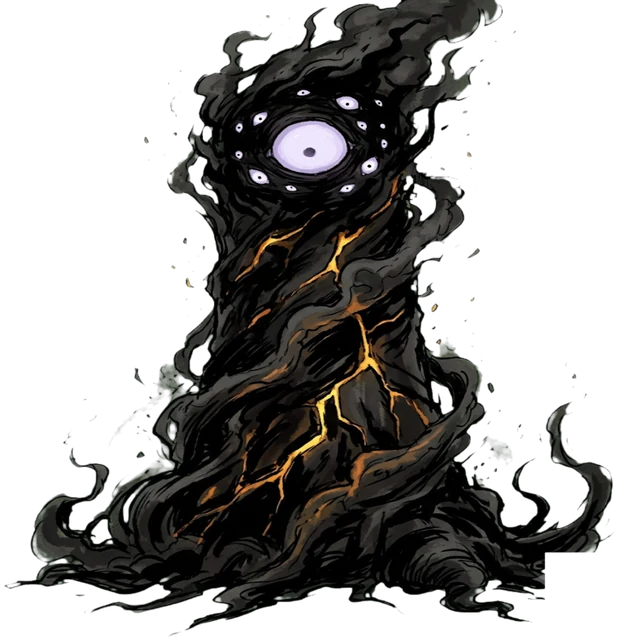
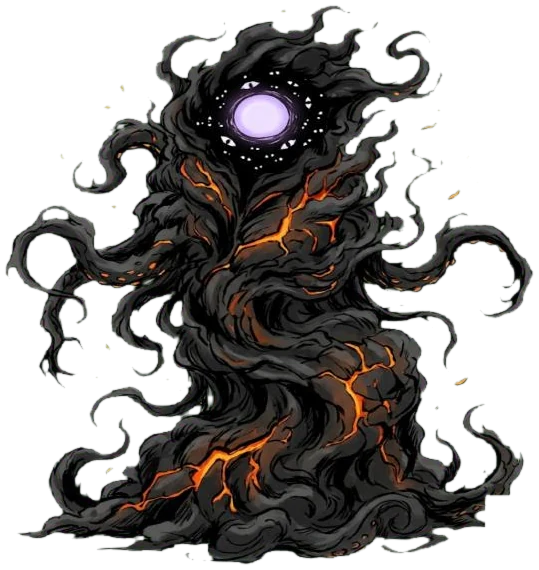
v2.32 시험판: 배경음악 자리(장면 6개·2초 겹침·음악 크기·통화 중 작게) · 호랑이 앞·뒤 · 이무기 솟구침 · 이름 없는 그것 다시 · 영노 옆·뒤(아직 안 씀)
Claude-Session: https://claude.ai/code/session_01SMJ1fWDFZvmCtNJRJPn1Wu

diff --git a/index.html b/index.html
@@ -10,7 +10,7 @@
 </script>
 <meta charset="utf-8">
 <meta name="viewport" content="width=device-width,initial-scale=1,maximum-scale=1,user-scalable=no">
-<title>잔야(가제) — 1단계 맛보기 v2.31</title>
+<title>잔야(가제) — 1단계 맛보기 v2.32</title>
 <style>
 html,body{margin:0;height:100%;background:#07060c;overflow:hidden;touch-action:none;
   font-family:-apple-system,"Apple SD Gothic Neo","Noto Sans KR","Malgun Gothic",sans-serif;color:#ece1cc;
@@ -322,7 +322,7 @@ html,body{margin:0;height:100%;background:#07060c;overflow:hidden;touch-action:n
 <div class="ov show" id="title">
   <div style="position:relative;height:170px;width:300px;margin-bottom:6px"><img src="img/gumiho_front.webp" style="position:absolute;right:-10px;top:0;height:150px;opacity:.35;filter:brightness(.6)"><img src="img/player_front.webp" style="position:absolute;left:70px;top:14px;height:156px"></div>
   <h1>잔 야</h1>
-  <div class="sub">(가제) · 1단계 맛보기 v2.31</div>
+  <div class="sub">(가제) · 1단계 맛보기 v2.32</div>
   <div class="who">모닥불 거점 · 서울 지도 · 깨어난 자 셋<br>고르는 대로 갈라지는 밤</div>
   <div class="btn big" id="bStart">눈을 뜬다</div>
   <div class="btn" id="bDex" style="margin-top:12px">도감 · 저승의 것들</div>
@@ -379,6 +379,7 @@ html,body{margin:0;height:100%;background:#07060c;overflow:hidden;touch-action:n
   <div id="pRet"></div>
   <div class="row2"><div class="btn" id="bQuit">🔥 모닥불로 돌아가기</div></div>
   <div class="btn" id="bVib" style="margin-top:14px;font-size:12px">📳 진동 켜짐</div>
+  <div class="btn" id="bBgm" style="margin-top:8px;font-size:12px;display:flex;align-items:center;justify-content:center;gap:8px">🎵 음악 <input type="range" id="bgmR" min="0" max="100" step="5" style="width:110px;accent-color:#f4b740"> <span id="bgmT" style="min-width:34px;text-align:left"></span></div>
   <div class="btn" id="bSlot" style="margin-top:8px;font-size:12px">↔ 좌우: 스킬칸 오른쪽 · 고르기 왼쪽</div>
   <div class="btn" id="bLvM" style="margin-top:8px;font-size:12px">🔥 레벨업: 모닥불에서 몰아 고르기</div>
   <div class="btn" id="bTune" style="margin-top:8px;font-size:12px">🎛 조정 (시험용 값 바꾸기)</div>
@@ -1323,9 +1324,9 @@ const BOSSDEF={
   // v2.3 도깨비: 옛 설화의 도깨비(외다리로 깡충, 도깨비불, 장난, 방망이). 뿔·가시 방망이 없음(02 규칙 8)
   dokkaebi:{name:'도깨비',hp:4200,H:3.5,views:{front:['img/dok_front.webp',531,545],side:['img/dok_side.webp',531,545],back:['img/dok_back.webp',531,545],atk:['img/dok_atk.webp',513,640,1.22]},col:0x6ab0ff,shot:[.4,.65,1],line:'깡충, 깡충. 외다리 발소리가 골목을 울린다',bye:'도깨비를 보냈다',left:'닳은 방망이 조각'},
   // v2.16 이무기: 용이 되지 못한 큰 뱀(옛 설화). 물속으로 숨었다 솟구치고, 꼬리로 휩쓸고, 물을 뿜는다. 다리·뿔 없음
-  imugi:{name:'이무기',hp:3600,H:3.9,views:{front:['img/imugi.webp',673,640]},col:0x6aa8ff,shot:[.45,.75,1],line:'물비린내가 짙어진다 · 천 년을 기다린 것이 고개를 든다',bye:'이무기를 보냈다',left:'젖은 비늘 한 장'}, // 한강 몫으로 아껴 둠(기획자 11-14 ㄴ)
+  imugi:{name:'이무기',hp:3600,H:3.9,views:{front:['img/imugi.webp',673,640],atk:['img/imugi_rise.webp',543,565,1.15]},col:0x6aa8ff,shot:[.45,.75,1],line:'물비린내가 짙어진다 · 천 년을 기다린 것이 고개를 든다',bye:'이무기를 보냈다',left:'젖은 비늘 한 장'}, // 한강 몫으로 아껴 둠(기획자 11-14 ㄴ)
   // v2.16b 호랑이: 해와 달이 된 오누이의 호랑이(옛이야기). 빙빙 돌며 노리다 할퀴고, 덮치고, 포효로 발을 굳히고, 어둠에 숨어 뒤에서 덮친다 = 수원 파이널
-  tiger:{name:'호랑이',hp:3400,H:2.5,views:{front:['img/tiger.webp',751,405],atk:['img/tiger_atk.webp',756,396,1.05]},col:0xffb050,shot:[1,.75,.35],line:'풀숲이 낮게 흔들린다 · 무언가 너를 빙빙 돌며 본다',bye:'호랑이를 보냈다',left:'굵은 범 수염'}
+  tiger:{name:'호랑이',hp:3400,H:2.5,views:{front:['img/tiger_front.webp',515,526,1.2],side:['img/tiger.webp',751,405],back:['img/tiger_back.webp',521,556,1.2],atk:['img/tiger_atk.webp',756,396,1.05]},col:0xffb050,shot:[1,.75,.35],line:'풀숲이 낮게 흔들린다 · 무언가 너를 빙빙 돌며 본다',bye:'호랑이를 보냈다',left:'굵은 범 수염'}
 };
 
 /* ============ 렌더러 / 카메라 ============ */
@@ -1788,7 +1789,7 @@ function doomStart(){ const P=player.root.position; S.doom={t:0,dur:9,x:P.x,z:P.
 function doomTick(dt,P){ const D=S.doom; D.t+=dt; const k=Math.min(1,D.t/2.2);
   // 뒤에서 다가온다: 처음엔 멀리(화면 위쪽), 점점 플레이어 쪽으로
   const tx=P.x, tz=P.z-.3, sp=(2.5+D.t*1.6)*dt; const dx=tx-D.x, dz=tz-D.z, l=Math.hypot(dx,dz)||1; if(l>.3){ D.x+=dx/l*Math.min(l,sp); D.z+=dz/l*Math.min(l,sp); }
-  const H=7+5.5*k, W=H*617/640, wob=1+Math.sin(D.t*2.3)*.03; // v2.15c 전용 그림(제미나이 「이름 없는 그것」 617×640)
+  const H=7+5.5*k, W=H*539/570, wob=1+Math.sin(D.t*2.3)*.03; // v2.32 다시 뽑음(촉수 안 잘림) 539×570
   const eo=Math.max(0,Math.min(1,(D.t-1.3)/.35)); if(eo>0&&!D.eyes){ D.eyes=1; DBG.shake=Math.max(DBG.shake||0,1.1); buzz(160); try{ sfx.roar(); }catch(e){} } // 큰 눈은 마지막에 번쩍 뜬다
   doomS.position.set(D.x,0,D.z); doomS.scale.set(W*wob,H,1); doomS.material.opacity=.92*k;
   doomE.position.set(D.x,0,D.z+.05); doomE.scale.set(W*wob,H,1); doomE.material.opacity=eo*(.8+.2*Math.sin(D.t*5));
@@ -2074,6 +2075,33 @@ $('bSnd').onclick=()=>{ SND.on=!SND.on; if(SND.master) SND.master.gain.value=SND
 function buzz(ms){ if(SV.vib===false||BOT) return; try{ if(navigator.vibrate) navigator.vibrate(ms); }catch(e){} }
 const vibUi=()=>{ $('bVib').textContent=SV.vib===false?'📳 진동 꺼짐':'📳 진동 켜짐'; $('bVib').style.opacity=SV.vib===false?.55:1; }; vibUi();
 $('bVib').onclick=()=>{ SV.vib=SV.vib===false; save(); vibUi(); if(SV.vib) buzz(60); };
+/* v2.32 배경음악 (기획자 11-17 09:39 「각 국가의 특색과 분위기에 맞게」 · 프롬프트는 47번 문서)
+   장면 6개: 기지 · 필드 · 중간보스 · 파이널 · 쟁탈(불씨·그것) · 판 끝. 곡 파일(bgm/*.mp3)이 없으면 조용히 넘어간다.
+   SND.master 아래에 물려서 🔊 끄기·통화 중 작게(callDuck)를 그대로 따른다. 장면이 바뀌면 2초 겹쳐 넘긴다. */
+const BGM={files:{base:'bgm/bgm_base.mp3',field:'bgm/bgm_field.mp3',mid:'bgm/bgm_mid.mp3',final:'bgm/bgm_final.mp3',clash:'bgm/bgm_clash.mp3',end:'bgm/bgm_end.mp3'},
+  buf:{},miss:{},loading:{},cur:'',want:'',src:null,g:null,bus:null,tk:0,log:[]};
+const bgmVol=()=>SV.bgm==null?.55:SV.bgm;
+function bgmBus(){ if(!SND.ctx||!SND.master) return null; if(!BGM.bus){ BGM.bus=SND.ctx.createGain(); BGM.bus.gain.value=bgmVol(); BGM.bus.connect(SND.master); } return BGM.bus; }
+async function bgmLoad(k){ if(BGM.buf[k]||BGM.miss[k]||BGM.loading[k]||!SND.ctx) return; BGM.loading[k]=1;
+  try{ const r=await fetch(BGM.files[k]); if(!r.ok) throw new Error(r.status); const a=await r.arrayBuffer(); BGM.buf[k]=await new Promise((ok,no)=>SND.ctx.decodeAudioData(a,ok,no)); }
+  catch(e){ BGM.miss[k]=1; } BGM.loading[k]=0; bgmUi(); }
+function bgmFade(g,t,to,dur){ try{ g.gain.cancelScheduledValues(t); g.gain.setValueAtTime(g.gain.value,t); g.gain.linearRampToValueAtTime(to,t+dur); }catch(e){} }
+function bgmPlay(k){ const bus=bgmBus(); if(!bus) return; BGM.want=k; if(BGM.cur===k) return;
+  if(!BGM.buf[k]&&!BGM.miss[k]){ bgmLoad(k); return; } // 받는 동안은 앞 곡을 이어 튼다
+  const c=SND.ctx, t=c.currentTime, X=k==='end'?.25:2;
+  if(BGM.src){ const o=BGM.src, og=BGM.g; bgmFade(og,t,0,X); try{ o.stop(t+X+.1); }catch(e){} BGM.src=null; BGM.g=null; }
+  BGM.cur=k; BGM.log.push(k); if(BGM.log.length>30) BGM.log.shift(); if(!BGM.buf[k]) return; // 곡 없음 → 조용히
+  const s=c.createBufferSource(); s.buffer=BGM.buf[k]; s.loop=k!=='end'; const g=c.createGain(); g.gain.setValueAtTime(0,t); g.gain.linearRampToValueAtTime(k==='end'?1:.9,t+X);
+  s.connect(g); g.connect(bus); s.start(t); BGM.src=s; BGM.g=g; }
+function bgmScene(){ if(!S||S.phase==='hub') return 'base'; if(S.phase==='over') return 'end';
+  if(S.doom||S.fLoot>0||(S.emG&&S.emG.length)) return 'clash';
+  if(boss.alive&&!boss.dying){ const fin=S.field?S.bossKey===FIELDS[S.field]?.boss:!WORLD; return fin?'final':'mid'; }
+  return 'field'; }
+function bgmTick(dt){ if(!SND.ctx) return; BGM.tk-=dt; if(BGM.tk>0) return; BGM.tk=.5; bgmPlay(bgmScene()); }
+function bgmUi(){ const r=$('bgmR'), t=$('bgmT'); if(!r) return; const v=Math.round(bgmVol()*100); r.value=v; const none=!Object.keys(BGM.buf).length&&Object.keys(BGM.miss).length>0;
+  t.textContent=none?`${v}% · 곡 아직 없음`:`${v}%`; }
+if($('bgmR')){ $('bgmR').oninput=e=>{ SV.bgm=(+e.target.value)/100; if(BGM.bus) BGM.bus.gain.value=SV.bgm; bgmUi(); }; $('bgmR').onchange=()=>save(); bgmUi(); }
+DBG.bgm=BGM; DBG.bgmScene=bgmScene;
 // v2.9.2 기획자 평: 스킬칸이 아래면 조이스틱과 겹친다 → 오른쪽(기본)·왼쪽·아래 고르기 / 레벨업은 모닥불에서 몰아 고르기(기본)·바로
 // v2.9.2b 기획자 평: 스킬칸은 오른쪽 · 고르기 카드는 왼쪽 · 아래는 비움. 좌우 바꾸기는 멈춤 화면에서 (SV.flip)
 function slotUi(){ const f=!!SV.flip, el=$('slots'); el.classList.toggle('sR',!f); el.classList.toggle('sL',f); $('lvbar').classList.toggle('R',f); $('lvBadge').classList.toggle('R',f); $('bSlot').textContent=f?'↔ 좌우: 스킬칸 왼쪽 · 고르기 오른쪽':'↔ 좌우: 스킬칸 오른쪽 · 고르기 왼쪽'; }
@@ -4326,6 +4354,7 @@ function tick(now){
   else if(S&&S.phase==='over'&&boss.alive) bossUpdate(dt);
   else if(!S||S.phase==='hub'){ player.update(dt,0); }
   try{ mpTick(dt); }catch(e){}
+  try{ bgmTick(dt); }catch(e){}
   if(DBG.fixed&&S&&S.phase==='play') draw(DBG.fixed/30,S.t); else draw(dt,t);
   requestAnimationFrame(tick);
 }

diff --git a/src/game.js b/src/game.js
@@ -147,9 +147,9 @@ const BOSSDEF={
   // v2.3 도깨비: 옛 설화의 도깨비(외다리로 깡충, 도깨비불, 장난, 방망이). 뿔·가시 방망이 없음(02 규칙 8)
   dokkaebi:{name:'도깨비',hp:4200,H:3.5,views:{front:['img/dok_front.webp',531,545],side:['img/dok_side.webp',531,545],back:['img/dok_back.webp',531,545],atk:['img/dok_atk.webp',513,640,1.22]},col:0x6ab0ff,shot:[.4,.65,1],line:'깡충, 깡충. 외다리 발소리가 골목을 울린다',bye:'도깨비를 보냈다',left:'닳은 방망이 조각'},
   // v2.16 이무기: 용이 되지 못한 큰 뱀(옛 설화). 물속으로 숨었다 솟구치고, 꼬리로 휩쓸고, 물을 뿜는다. 다리·뿔 없음
-  imugi:{name:'이무기',hp:3600,H:3.9,views:{front:['img/imugi.webp',673,640]},col:0x6aa8ff,shot:[.45,.75,1],line:'물비린내가 짙어진다 · 천 년을 기다린 것이 고개를 든다',bye:'이무기를 보냈다',left:'젖은 비늘 한 장'}, // 한강 몫으로 아껴 둠(기획자 11-14 ㄴ)
+  imugi:{name:'이무기',hp:3600,H:3.9,views:{front:['img/imugi.webp',673,640],atk:['img/imugi_rise.webp',543,565,1.15]},col:0x6aa8ff,shot:[.45,.75,1],line:'물비린내가 짙어진다 · 천 년을 기다린 것이 고개를 든다',bye:'이무기를 보냈다',left:'젖은 비늘 한 장'}, // 한강 몫으로 아껴 둠(기획자 11-14 ㄴ)
   // v2.16b 호랑이: 해와 달이 된 오누이의 호랑이(옛이야기). 빙빙 돌며 노리다 할퀴고, 덮치고, 포효로 발을 굳히고, 어둠에 숨어 뒤에서 덮친다 = 수원 파이널
-  tiger:{name:'호랑이',hp:3400,H:2.5,views:{front:['img/tiger.webp',751,405],atk:['img/tiger_atk.webp',756,396,1.05]},col:0xffb050,shot:[1,.75,.35],line:'풀숲이 낮게 흔들린다 · 무언가 너를 빙빙 돌며 본다',bye:'호랑이를 보냈다',left:'굵은 범 수염'}
+  tiger:{name:'호랑이',hp:3400,H:2.5,views:{front:['img/tiger_front.webp',515,526,1.2],side:['img/tiger.webp',751,405],back:['img/tiger_back.webp',521,556,1.2],atk:['img/tiger_atk.webp',756,396,1.05]},col:0xffb050,shot:[1,.75,.35],line:'풀숲이 낮게 흔들린다 · 무언가 너를 빙빙 돌며 본다',bye:'호랑이를 보냈다',left:'굵은 범 수염'}
 };
 
 /* ============ 렌더러 / 카메라 ============ */
@@ -612,7 +612,7 @@ function doomStart(){ const P=player.root.position; S.doom={t:0,dur:9,x:P.x,z:P.
 function doomTick(dt,P){ const D=S.doom; D.t+=dt; const k=Math.min(1,D.t/2.2);
   // 뒤에서 다가온다: 처음엔 멀리(화면 위쪽), 점점 플레이어 쪽으로
   const tx=P.x, tz=P.z-.3, sp=(2.5+D.t*1.6)*dt; const dx=tx-D.x, dz=tz-D.z, l=Math.hypot(dx,dz)||1; if(l>.3){ D.x+=dx/l*Math.min(l,sp); D.z+=dz/l*Math.min(l,sp); }
-  const H=7+5.5*k, W=H*617/640, wob=1+Math.sin(D.t*2.3)*.03; // v2.15c 전용 그림(제미나이 「이름 없는 그것」 617×640)
+  const H=7+5.5*k, W=H*539/570, wob=1+Math.sin(D.t*2.3)*.03; // v2.32 다시 뽑음(촉수 안 잘림) 539×570
   const eo=Math.max(0,Math.min(1,(D.t-1.3)/.35)); if(eo>0&&!D.eyes){ D.eyes=1; DBG.shake=Math.max(DBG.shake||0,1.1); buzz(160); try{ sfx.roar(); }catch(e){} } // 큰 눈은 마지막에 번쩍 뜬다
   doomS.position.set(D.x,0,D.z); doomS.scale.set(W*wob,H,1); doomS.material.opacity=.92*k;
   doomE.position.set(D.x,0,D.z+.05); doomE.scale.set(W*wob,H,1); doomE.material.opacity=eo*(.8+.2*Math.sin(D.t*5));
@@ -898,6 +898,33 @@ $('bSnd').onclick=()=>{ SND.on=!SND.on; if(SND.master) SND.master.gain.value=SND
 function buzz(ms){ if(SV.vib===false||BOT) return; try{ if(navigator.vibrate) navigator.vibrate(ms); }catch(e){} }
 const vibUi=()=>{ $('bVib').textContent=SV.vib===false?'📳 진동 꺼짐':'📳 진동 켜짐'; $('bVib').style.opacity=SV.vib===false?.55:1; }; vibUi();
 $('bVib').onclick=()=>{ SV.vib=SV.vib===false; save(); vibUi(); if(SV.vib) buzz(60); };
+/* v2.32 배경음악 (기획자 11-17 09:39 「각 국가의 특색과 분위기에 맞게」 · 프롬프트는 47번 문서)
+   장면 6개: 기지 · 필드 · 중간보스 · 파이널 · 쟁탈(불씨·그것) · 판 끝. 곡 파일(bgm/*.mp3)이 없으면 조용히 넘어간다.
+   SND.master 아래에 물려서 🔊 끄기·통화 중 작게(callDuck)를 그대로 따른다. 장면이 바뀌면 2초 겹쳐 넘긴다. */
+const BGM={files:{base:'bgm/bgm_base.mp3',field:'bgm/bgm_field.mp3',mid:'bgm/bgm_mid.mp3',final:'bgm/bgm_final.mp3',clash:'bgm/bgm_clash.mp3',end:'bgm/bgm_end.mp3'},
+  buf:{},miss:{},loading:{},cur:'',want:'',src:null,g:null,bus:null,tk:0,log:[]};
+const bgmVol=()=>SV.bgm==null?.55:SV.bgm;
+function bgmBus(){ if(!SND.ctx||!SND.master) return null; if(!BGM.bus){ BGM.bus=SND.ctx.createGain(); BGM.bus.gain.value=bgmVol(); BGM.bus.connect(SND.master); } return BGM.bus; }
+async function bgmLoad(k){ if(BGM.buf[k]||BGM.miss[k]||BGM.loading[k]||!SND.ctx) return; BGM.loading[k]=1;
+  try{ const r=await fetch(BGM.files[k]); if(!r.ok) throw new Error(r.status); const a=await r.arrayBuffer(); BGM.buf[k]=await new Promise((ok,no)=>SND.ctx.decodeAudioData(a,ok,no)); }
+  catch(e){ BGM.miss[k]=1; } BGM.loading[k]=0; bgmUi(); }
+function bgmFade(g,t,to,dur){ try{ g.gain.cancelScheduledValues(t); g.gain.setValueAtTime(g.gain.value,t); g.gain.linearRampToValueAtTime(to,t+dur); }catch(e){} }
+function bgmPlay(k){ const bus=bgmBus(); if(!bus) return; BGM.want=k; if(BGM.cur===k) return;
+  if(!BGM.buf[k]&&!BGM.miss[k]){ bgmLoad(k); return; } // 받는 동안은 앞 곡을 이어 튼다
+  const c=SND.ctx, t=c.currentTime, X=k==='end'?.25:2;
+  if(BGM.src){ const o=BGM.src, og=BGM.g; bgmFade(og,t,0,X); try{ o.stop(t+X+.1); }catch(e){} BGM.src=null; BGM.g=null; }
+  BGM.cur=k; BGM.log.push(k); if(BGM.log.length>30) BGM.log.shift(); if(!BGM.buf[k]) return; // 곡 없음 → 조용히
+  const s=c.createBufferSource(); s.buffer=BGM.buf[k]; s.loop=k!=='end'; const g=c.createGain(); g.gain.setValueAtTime(0,t); g.gain.linearRampToValueAtTime(k==='end'?1:.9,t+X);
+  s.connect(g); g.connect(bus); s.start(t); BGM.src=s; BGM.g=g; }
+function bgmScene(){ if(!S||S.phase==='hub') return 'base'; if(S.phase==='over') return 'end';
+  if(S.doom||S.fLoot>0||(S.emG&&S.emG.length)) return 'clash';
+  if(boss.alive&&!boss.dying){ const fin=S.field?S.bossKey===FIELDS[S.field]?.boss:!WORLD; return fin?'final':'mid'; }
+  return 'field'; }
+function bgmTick(dt){ if(!SND.ctx) return; BGM.tk-=dt; if(BGM.tk>0) return; BGM.tk=.5; bgmPlay(bgmScene()); }
+function bgmUi(){ const r=$('bgmR'), t=$('bgmT'); if(!r) return; const v=Math.round(bgmVol()*100); r.value=v; const none=!Object.keys(BGM.buf).length&&Object.keys(BGM.miss).length>0;
+  t.textContent=none?`${v}% · 곡 아직 없음`:`${v}%`; }
+if($('bgmR')){ $('bgmR').oninput=e=>{ SV.bgm=(+e.target.value)/100; if(BGM.bus) BGM.bus.gain.value=SV.bgm; bgmUi(); }; $('bgmR').onchange=()=>save(); bgmUi(); }
+DBG.bgm=BGM; DBG.bgmScene=bgmScene;
 // v2.9.2 기획자 평: 스킬칸이 아래면 조이스틱과 겹친다 → 오른쪽(기본)·왼쪽·아래 고르기 / 레벨업은 모닥불에서 몰아 고르기(기본)·바로
 // v2.9.2b 기획자 평: 스킬칸은 오른쪽 · 고르기 카드는 왼쪽 · 아래는 비움. 좌우 바꾸기는 멈춤 화면에서 (SV.flip)
 function slotUi(){ const f=!!SV.flip, el=$('slots'); el.classList.toggle('sR',!f); el.classList.toggle('sL',f); $('lvbar').classList.toggle('R',f); $('lvBadge').classList.toggle('R',f); $('bSlot').textContent=f?'↔ 좌우: 스킬칸 왼쪽 · 고르기 오른쪽':'↔ 좌우: 스킬칸 오른쪽 · 고르기 왼쪽'; }
@@ -3150,6 +3177,7 @@ function tick(now){
   else if(S&&S.phase==='over'&&boss.alive) bossUpdate(dt);
   else if(!S||S.phase==='hub'){ player.update(dt,0); }
   try{ mpTick(dt); }catch(e){}
+  try{ bgmTick(dt); }catch(e){}
   if(DBG.fixed&&S&&S.phase==='play') draw(DBG.fixed/30,S.t); else draw(dt,t);
   requestAnimationFrame(tick);
 }

diff --git a/src/index.html b/src/index.html
@@ -3,7 +3,7 @@
 <head>
 <meta charset="utf-8">
 <meta name="viewport" content="width=device-width,initial-scale=1,maximum-scale=1,user-scalable=no">
-<title>잔야(가제) — 1단계 맛보기 v2.31</title>
+<title>잔야(가제) — 1단계 맛보기 v2.32</title>
 <style>
 html,body{margin:0;height:100%;background:#07060c;overflow:hidden;touch-action:none;
   font-family:-apple-system,"Apple SD Gothic Neo","Noto Sans KR","Malgun Gothic",sans-serif;color:#ece1cc;
@@ -315,7 +315,7 @@ html,body{margin:0;height:100%;background:#07060c;overflow:hidden;touch-action:n
 <div class="ov show" id="title">
   <div style="position:relative;height:170px;width:300px;margin-bottom:6px"><img src="img/gumiho_front.webp" style="position:absolute;right:-10px;top:0;height:150px;opacity:.35;filter:brightness(.6)"><img src="img/player_front.webp" style="position:absolute;left:70px;top:14px;height:156px"></div>
   <h1>잔 야</h1>
-  <div class="sub">(가제) · 1단계 맛보기 v2.31</div>
+  <div class="sub">(가제) · 1단계 맛보기 v2.32</div>
   <div class="who">모닥불 거점 · 서울 지도 · 깨어난 자 셋<br>고르는 대로 갈라지는 밤</div>
   <div class="btn big" id="bStart">눈을 뜬다</div>
   <div class="btn" id="bDex" style="margin-top:12px">도감 · 저승의 것들</div>
@@ -372,6 +372,7 @@ html,body{margin:0;height:100%;background:#07060c;overflow:hidden;touch-action:n
   <div id="pRet"></div>
   <div class="row2"><div class="btn" id="bQuit">🔥 모닥불로 돌아가기</div></div>
   <div class="btn" id="bVib" style="margin-top:14px;font-size:12px">📳 진동 켜짐</div>
+  <div class="btn" id="bBgm" style="margin-top:8px;font-size:12px;display:flex;align-items:center;justify-content:center;gap:8px">🎵 음악 <input type="range" id="bgmR" min="0" max="100" step="5" style="width:110px;accent-color:#f4b740"> <span id="bgmT" style="min-width:34px;text-align:left"></span></div>
   <div class="btn" id="bSlot" style="margin-top:8px;font-size:12px">↔ 좌우: 스킬칸 오른쪽 · 고르기 왼쪽</div>
   <div class="btn" id="bLvM" style="margin-top:8px;font-size:12px">🔥 레벨업: 모닥불에서 몰아 고르기</div>
   <div class="btn" id="bTune" style="margin-top:8px;font-size:12px">🎛 조정 (시험용 값 바꾸기)</div>

diff --git a/tools/t_bgm.py b/tools/t_bgm.py
@@ -1,0 +1,32 @@
+# v2.32 배경음악 시험: 장면이 바뀔 때 곡이 바뀌는지(필드→중간보스→필드→파이널→쟁탈) · 곡 파일이 없을 때 오류 없는지
+import asyncio, sys, json
+from playwright.async_api import async_playwright
+NOFILE=len(sys.argv)>1 and sys.argv[1]=='nofile'
+async def main():
+    async with async_playwright() as p:
+        b=await p.chromium.launch(executable_path="/usr/bin/google-chrome",args=["--use-gl=angle","--use-angle=swiftshader","--enable-unsafe-swiftshader","--ignore-gpu-blocklist","--autoplay-policy=no-user-gesture-required"])
+        pg=await b.new_page(viewport={"width":390,"height":844}); errs=[]
+        pg.on("pageerror",lambda e: errs.append("PAGEERR "+str(e)))
+        await pg.route("https://cdn.jsdelivr.net/npm/three@0.160.0/build/three.module.js",lambda r: r.fulfill(path="/home/claude/game/node_modules/three/build/three.module.js",content_type="application/javascript"))
+        if NOFILE: await pg.route("**/bgm/*.mp3",lambda r: r.fulfill(status=404,body="no"))
+        await pg.goto("http://localhost:8765/dist.html?sfield#bot"); await pg.wait_for_timeout(4000)
+        ev=lambda js: pg.evaluate(js)
+        st=lambda: ev("JSON.stringify({sc:__dbg.DBG.bgmScene(),cur:__dbg.DBG.bgm.cur,want:__dbg.DBG.bgm.want,buf:Object.keys(__dbg.DBG.bgm.buf),miss:Object.keys(__dbg.DBG.bgm.miss),ph:__dbg.S.phase})")
+        await ev("(()=>{const d=__dbg,S=d.S;S.maxhp=S.hp=99999;window.BOTOFF=1;d.setTs(4);S.ynT=1e9;return 1})()")
+        await pg.wait_for_timeout(3000); print("start",await st())
+        Z=json.loads(await ev("JSON.stringify(__dbg.MY.zones.map(z=>({id:z.id,x:z.x,z:z.z,key:z.key})))"))
+        for z in Z:
+            await ev(f"(()=>{{const P=__dbg.player.root.position;P.set({z['x']}+2,0,{z['z']});return 1}})()")
+            await pg.wait_for_function("__dbg.boss.alive",timeout=30000); await pg.wait_for_timeout(2500)
+            print(z['key'],"fight",await st())
+            if z['key']=='tiger':
+                vs=set()
+                for k in range(16):
+                    await pg.wait_for_timeout(400); vs.add(await ev("__dbg.boss.view"))
+                print("tiger views",sorted(vs)); await pg.screenshot(path="/home/claude/test/bgm_tiger.png")
+            await ev("__dbg.hitBoss(1e7)"); await pg.wait_for_function("!__dbg.boss.alive",timeout=60000); await pg.wait_for_timeout(2500)
+            print(z['key'],"after",await st())
+        await pg.wait_for_timeout(3000); print("clash?",await st())
+        print("log",await ev("JSON.stringify(__dbg.DBG.bgm.log)"))
+        print("ERRS",errs[:6]); await b.close()
+asyncio.run(main())
